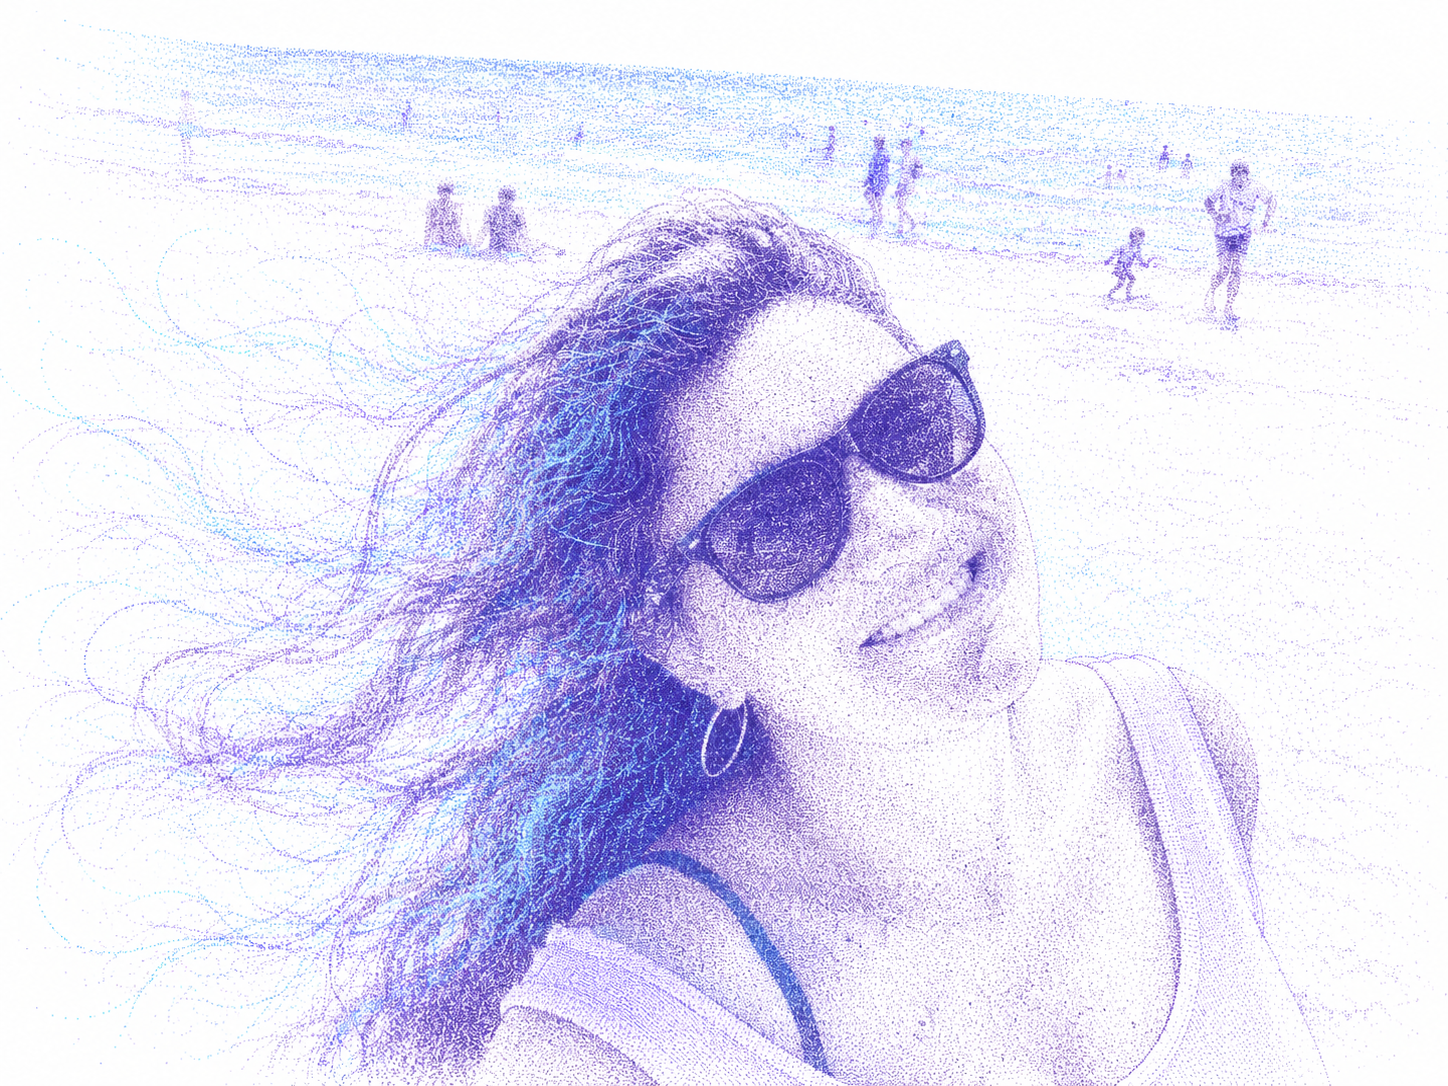
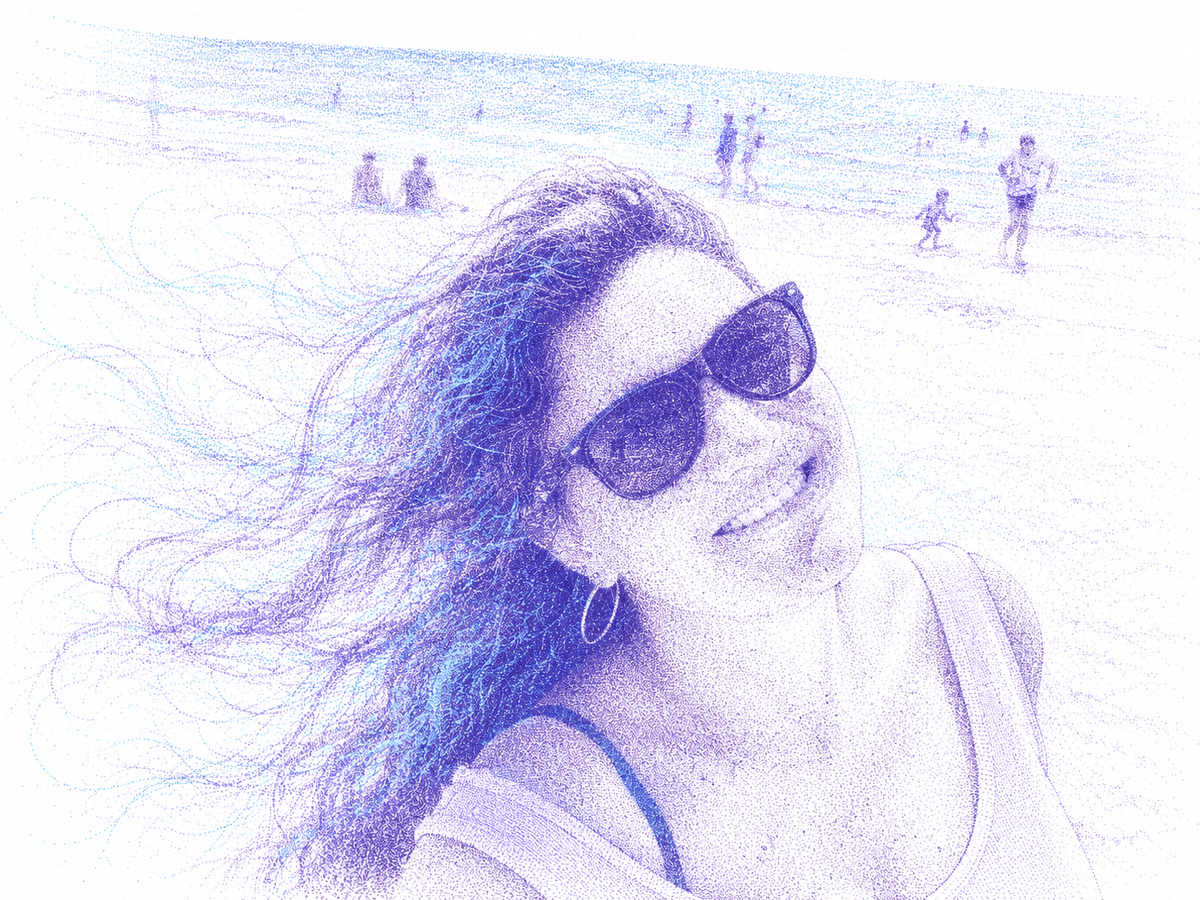
perf: différer le flux Instagram (Behold) au scroll + alléger le filigrane
- InstagramBanner: chargement du script Behold via IntersectionObserver (ne pèse plus sur le chargement initial)
- HomeHero: filigrane marion_home en priority (corrige le LCP desktop)
- marion_home.png recompressé (2,8 Mo -> 753 Ko), sans changement visuel

diff --git a/lavieenhd/components/sections/home/InstagramBanner.tsx b/lavieenhd/components/sections/home/InstagramBanner.tsx
@@ -1,6 +1,6 @@
 "use client";
 
-import { useEffect } from "react";
+import { useEffect, useRef } from "react";
 
 /**
  * Bandeau "On se retrouve sur Instagram".
@@ -21,15 +21,33 @@ const HANDLE = "@marionchartier_lavieenhd";
 const BeholdWidget = "behold-widget" as unknown as React.FC<{ "feed-id": string }>;
 
 export function InstagramBanner() {
-  // Charge le script Behold une seule fois, uniquement si un feed est configuré.
+  const feedRef = useRef<HTMLDivElement>(null);
+
+  // Charge le script Behold une seule fois, et seulement quand la section approche
+  // du viewport (différé pour ne pas peser sur le chargement initial de la page).
   useEffect(() => {
     if (!BEHOLD_FEED_ID) return;
+    const el = feedRef.current;
+    if (!el) return;
     const SRC = "https://w.behold.so/widget.js";
-    if (document.querySelector(`script[src="${SRC}"]`)) return;
-    const s = document.createElement("script");
-    s.type = "module";
-    s.src = SRC;
-    document.body.appendChild(s);
+    const load = () => {
+      if (document.querySelector(`script[src="${SRC}"]`)) return;
+      const s = document.createElement("script");
+      s.type = "module";
+      s.src = SRC;
+      document.body.appendChild(s);
+    };
+    const io = new IntersectionObserver(
+      (entries) => {
+        if (entries.some((e) => e.isIntersecting)) {
+          load();
+          io.disconnect();
+        }
+      },
+      { rootMargin: "400px" },
+    );
+    io.observe(el);
+    return () => io.disconnect();
   }, []);
 
   return (
@@ -52,7 +70,7 @@ export function InstagramBanner() {
         </div>
 
         {/* Flux Instagram (Behold) ou grille d'exemple */}
-        <div className="mt-12">
+        <div ref={feedRef} className="mt-12">
           {BEHOLD_FEED_ID ? (
             <BeholdWidget feed-id={BEHOLD_FEED_ID} />
           ) : (

diff --git a/lavieenhd/components/sections/home/HomeHero.tsx b/lavieenhd/components/sections/home/HomeHero.tsx
@@ -49,7 +49,7 @@ export function HomeHero() {
         alt=""
         width={600}
         height={300}
-        priority={false}
+        priority
         aria-hidden
         className="pointer-events-none absolute bottom-[12%] left-[10%] hidden h-auto w-[700px] opacity-[0.22] mix-blend-multiply lg:block"
         style={{
